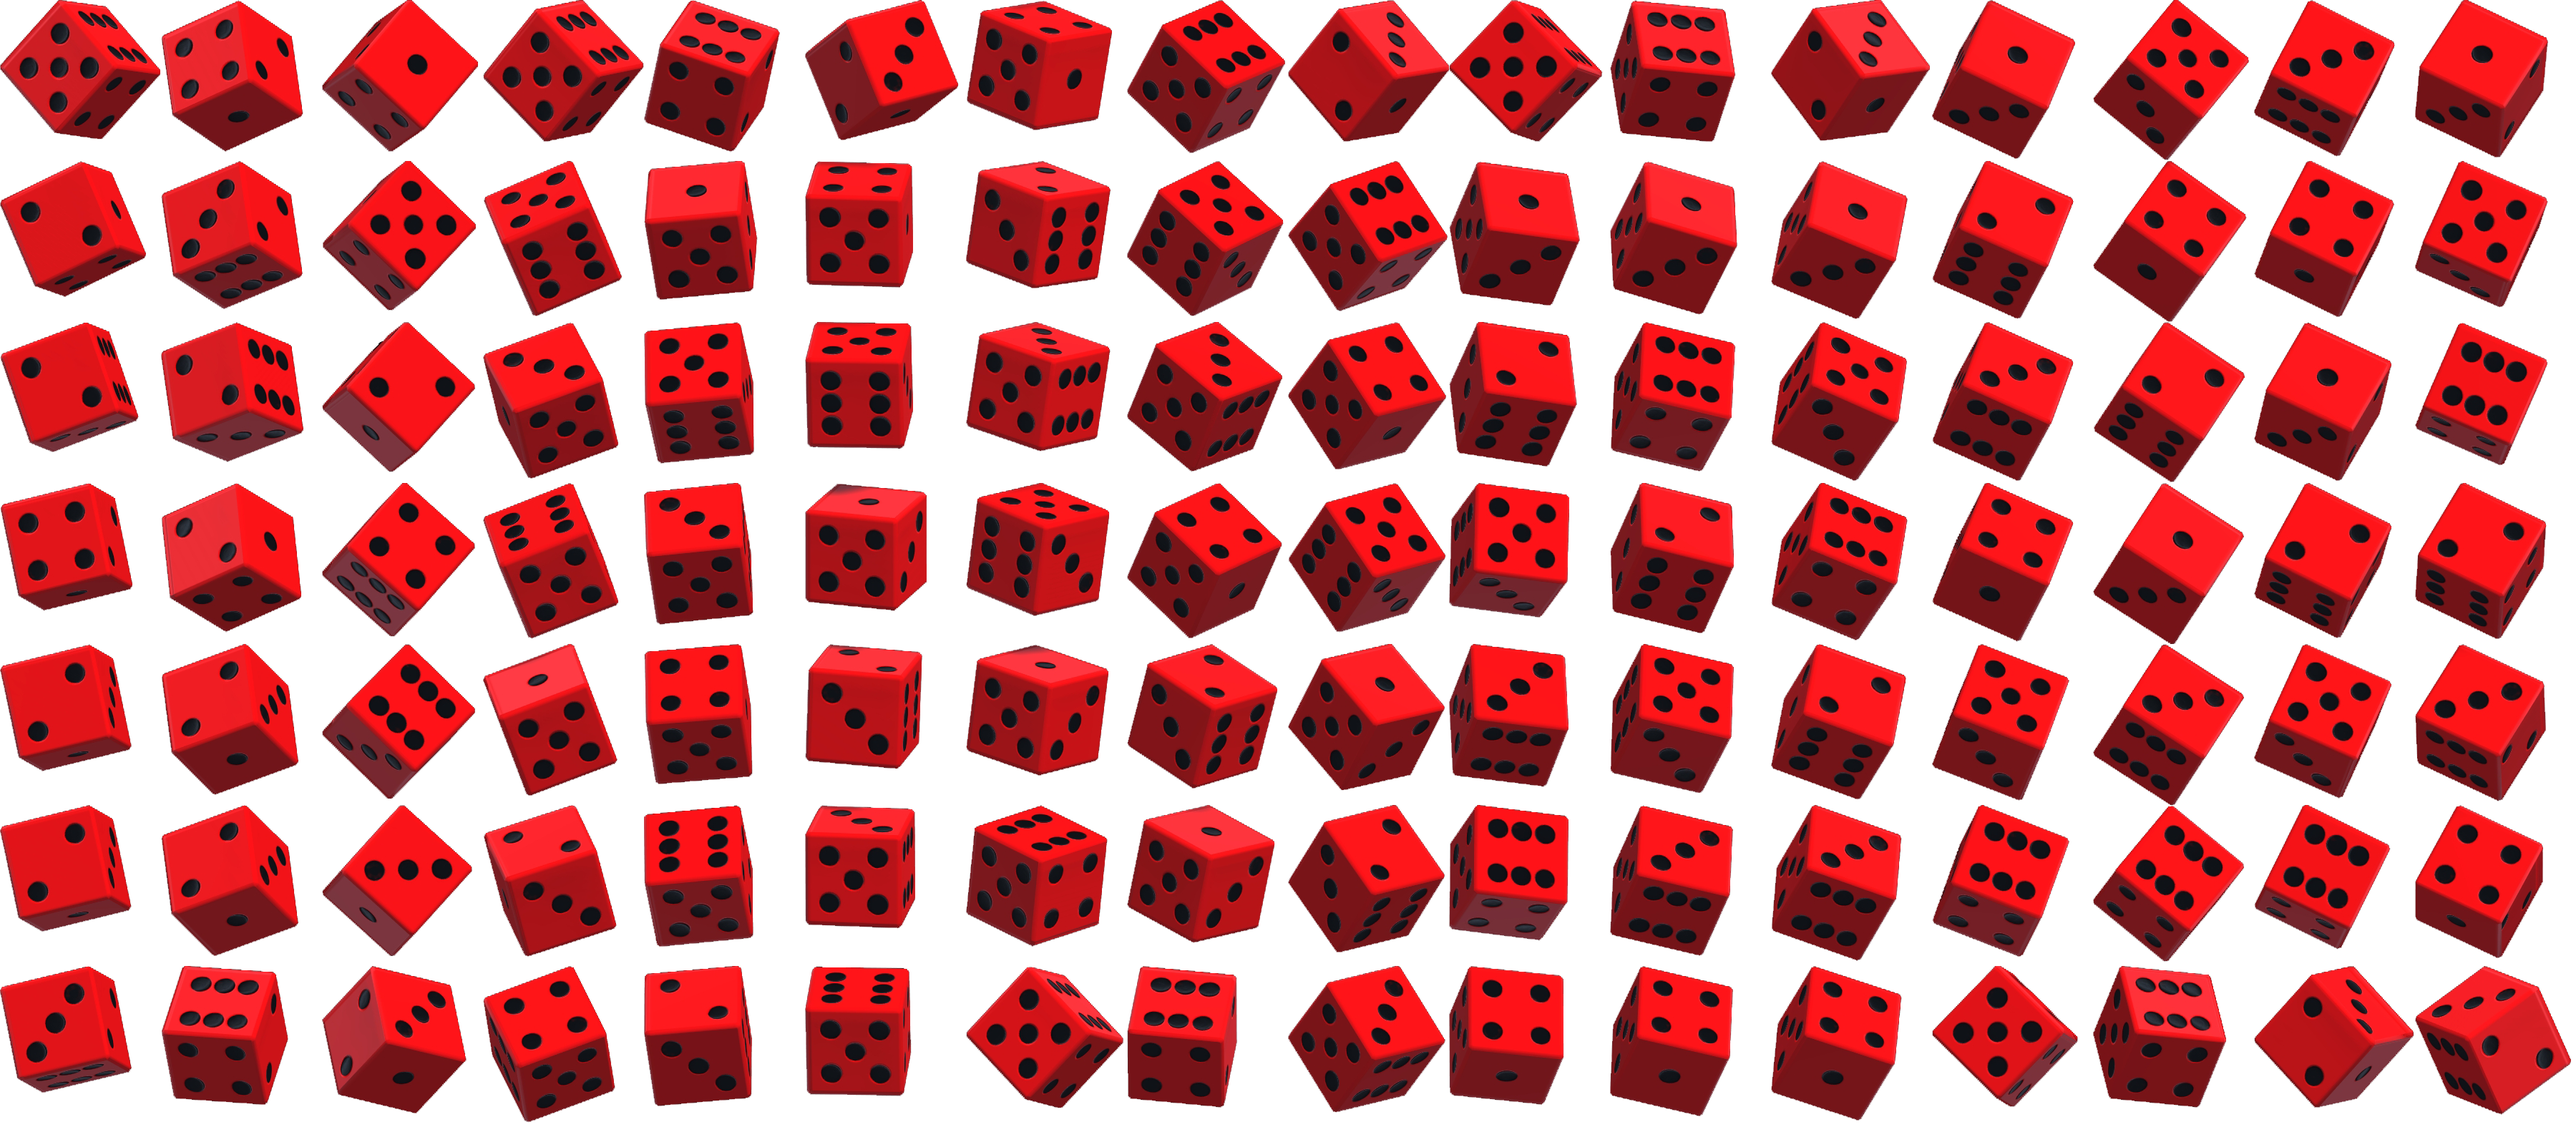
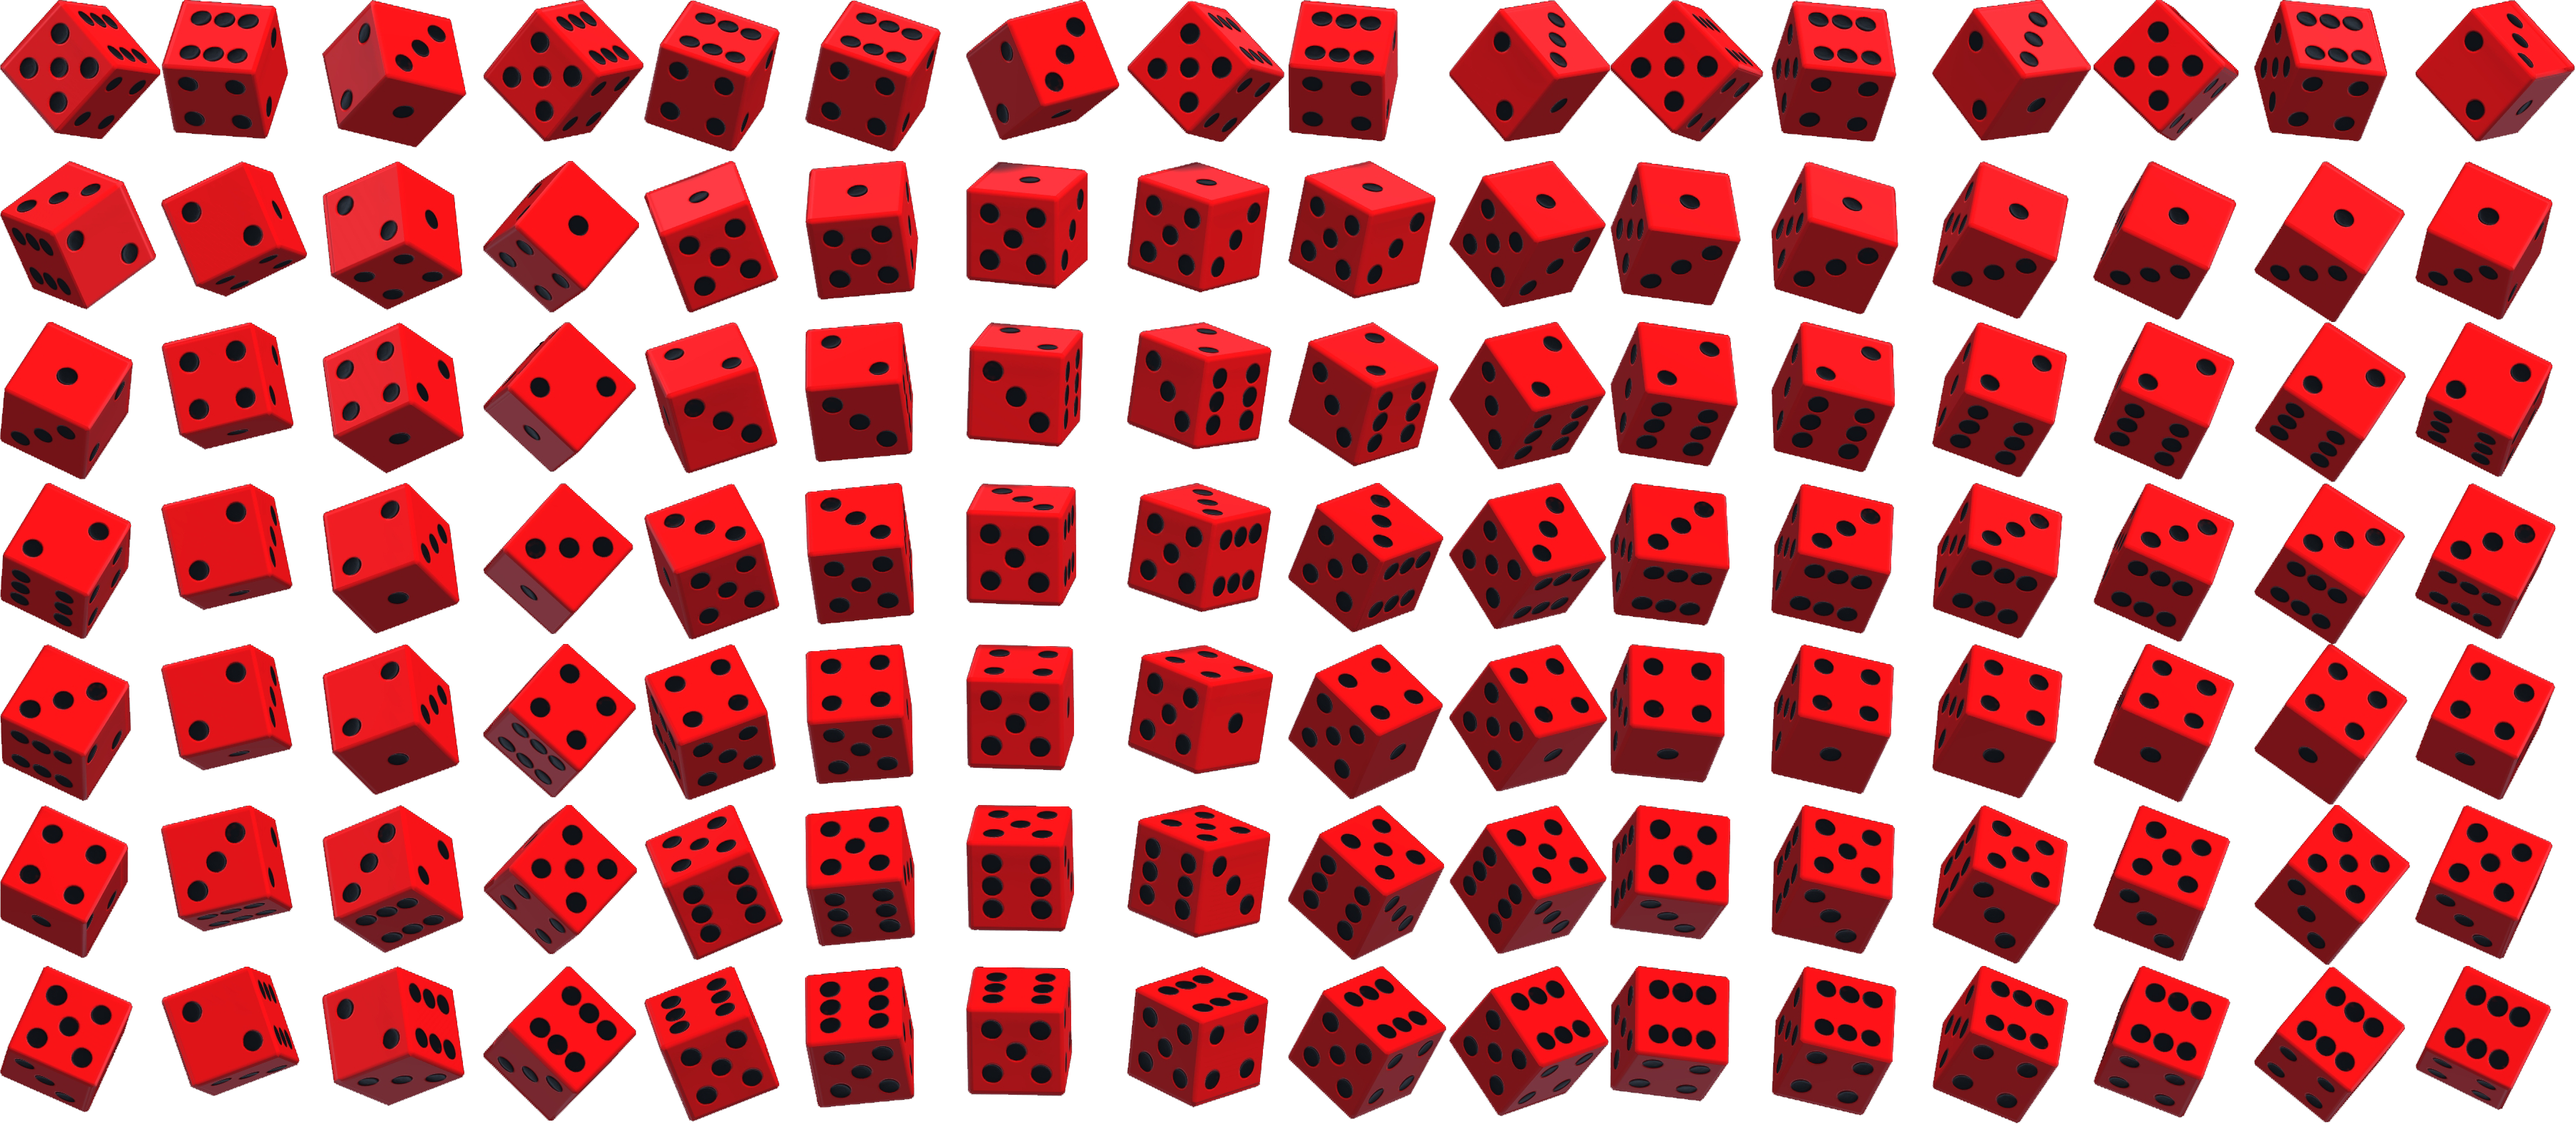
Fix and optimize dice rolls

diff --git a/app/src/main/java/ru/deewend/cheshka/DiceView.java b/app/src/main/java/ru/deewend/cheshka/DiceView.java
@@ -6,20 +6,15 @@ import android.graphics.BitmapFactory;
 import android.graphics.Canvas;
 import android.graphics.Rect;
 import android.util.AttributeSet;
-import android.util.Log;
 
 import androidx.annotation.NonNull;
 import androidx.annotation.Nullable;
 
 import java.io.IOException;
 import java.io.InputStream;
-import java.util.Properties;
 
 public class DiceView extends CheshkaView {
-    public static final String TAG = DiceView.class.getName();
-
     public static final String DICE_ATLAS_FILENAME = "dicerolls.png";
-    public static final String ROWS_PROPERTIES_FILENAME = "rows.properties";
     public static final int SPRITE_COUNT_X = 16;
     public static final int SPRITE_COUNT_Y = 7;
     public static final int LAST_FRAME = SPRITE_COUNT_X - 1;
@@ -27,9 +22,6 @@ public class DiceView extends CheshkaView {
     public static final byte MODE_IDLE = 0;
     public static final byte MODE_THINKING = 1;
     public static final byte MODE_ROLLING_EXACT_DIGIT = 2;
-
-    private static final int[] ROWS = new int[SPRITE_COUNT_Y];
-    private static boolean rowsPropertiesRead;
 
     private static byte diceMode;
     private static int diceDigit;
@@ -40,7 +32,6 @@ public class DiceView extends CheshkaView {
     private int height;
     private Rect atlasRect;
     private Rect canvasRect;
-    private Properties properties;
 
     public DiceView(Context context) {
         super(context);
@@ -72,7 +63,7 @@ public class DiceView extends CheshkaView {
                 throw new IllegalStateException("Unknown mode: " + mode);
             }
             atlasRect.left = frame * width;
-            atlasRect.top = ROWS[digit] * height;
+            atlasRect.top = digit * height;
             atlasRect.right = atlasRect.left + width;
             atlasRect.bottom = atlasRect.top + height;
 
@@ -111,43 +102,6 @@ public class DiceView extends CheshkaView {
 
         atlasRect = new Rect();
         canvasRect = new Rect();
-
-        if (!rowsPropertiesRead) {
-            properties = new Properties();
-            try (InputStream stream = Helper.openFile(activity, ROWS_PROPERTIES_FILENAME)) {
-                properties.load(stream);
-            } catch (IOException e) {
-                Log.w(TAG, "I/O issue when reading " + ROWS_PROPERTIES_FILENAME, e);
-            }
-            ROWS[0] = getInt("rowThinking", 6);
-            ROWS[1] = getInt("row1", 0);
-            ROWS[2] = getInt("row2", 3);
-            ROWS[3] = getInt("row3", 4);
-            ROWS[4] = getInt("row4", 5);
-            ROWS[5] = getInt("row5", 1);
-            ROWS[6] = getInt("row6", 2);
-            properties = null;
-
-            rowsPropertiesRead = true;
-        }
-    }
-
-    private int getInt(String key, int defaultValue) {
-        String result = properties.getProperty(key, Helper.DEFAULT_STRING_VALUE);
-        if (result.equals(Helper.DEFAULT_STRING_VALUE)) {
-            return defaultValue;
-        }
-        int parsedResult;
-        try {
-            parsedResult = Integer.parseInt(result);
-        } catch (NumberFormatException e) {
-            Log.w(TAG, "Bad value of key \"" + key + "\" in " +
-                    ROWS_PROPERTIES_FILENAME + ": " + result + ". Defaulting to " + defaultValue);
-
-            return defaultValue;
-        }
-
-        return parsedResult;
     }
 
     public static void setDigit(int digit) {
